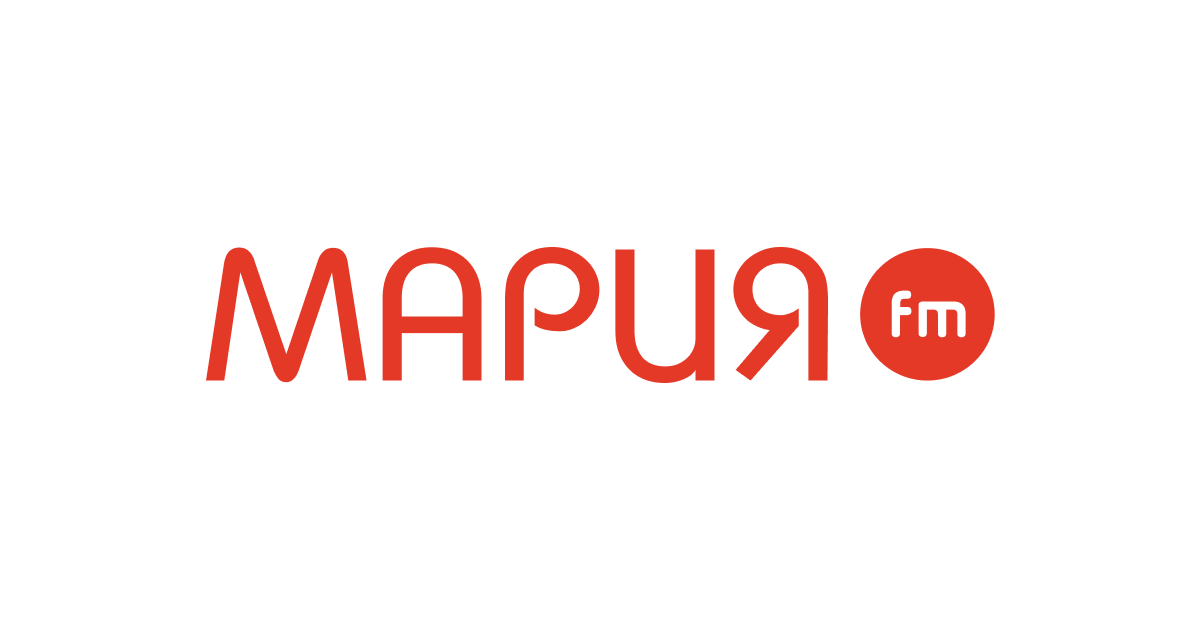
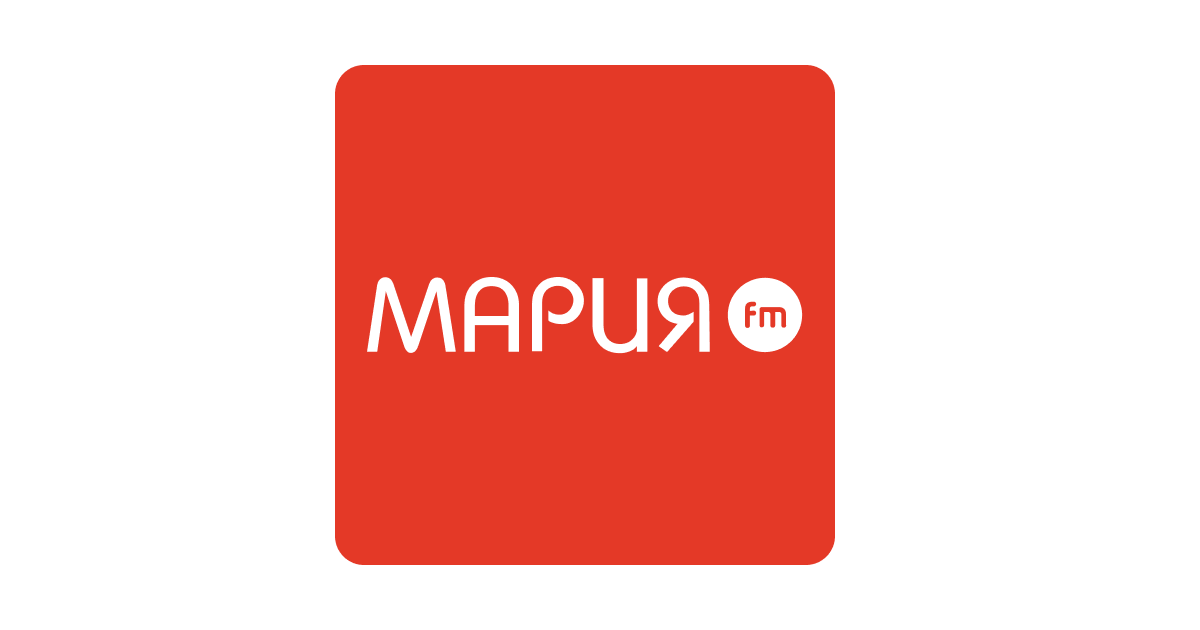
main: добавлено изображение для соц сетей

diff --git a/landing/templates/landing/base.html b/landing/templates/landing/base.html
@@ -15,14 +15,10 @@
 	<link rel="shortcut icon" href="{% static 'icons/general/favicon.png' %}" type="image/png" />
 
 	<meta property="og:type" content="website">
-	<meta property="og:title" content="Мария ФМ | Киров">
-	<meta property="og:url" content="https://mariafm.ru/">
+	<meta property="og:title" content="Мария ФМ | Радио нашего города">
+	<meta property="og:url" content="https://mariafm.ru">
 	<meta property="og:image" content="{% static 'images/general/og-cover.png' %}">
-	<meta property="og:description" content="Радио нашего города!
-		Только полезный и интересный кировский контент:
-		- достоверные новости каждые 15 минут;
-		- ежедневные розыгрыши призов и подарков;
-		- музыка, которую выбирают кировчане."
+	<meta property="og:description" content="Радио нашего города! Только полезный и интересный кировский контент"
 	>
 
 	<title>Мария ФМ | Радио нашего города</title>
